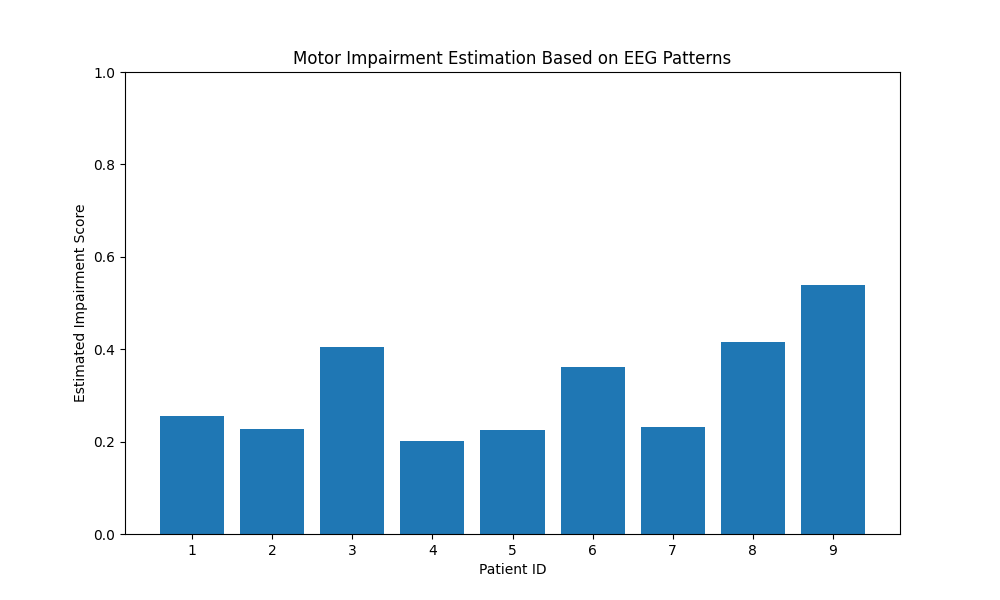
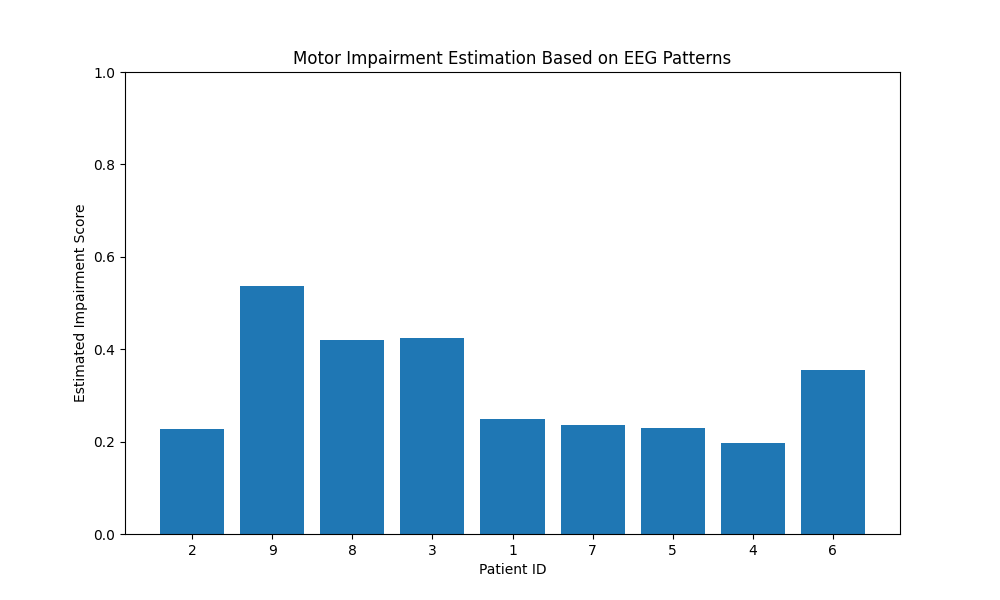
updated for train_val_test spilt

diff --git a/main.py b/main.py
@@ -1,29 +1,3 @@
-# from preprocessing2 import EEGPreprocessing  # Import the EEGPreprocessing class directly
-# from rehabilitation_analysis import run_rehabilitation_analysis
-
-# def main():
-#     # Step 1: Initialize and run the EEG preprocessing pipeline
-#     print("Starting preprocessing of EEG data...")
-#     dataset_path = 'BCICIV_2a_all_patients.csv'
-#     preprocessor = EEGPreprocessing(dataset_path)
-    
-#     # Run preprocessing pipeline to get epochs
-#     epochs = preprocessor.run_preprocessing_pipeline(
-#         epoch_duration=1.0,  # 1-second epochs
-#         overlap=0.5          # 50% overlap between epochs
-#     )
-    
-#     # Step 2: Run the rehabilitation analysis pipeline
-#     print("Starting rehabilitation analysis...")
-#     results = run_rehabilitation_analysis(epochs)
-    
-#     print("Project execution complete.")
-#     print("Check 'patient_reports' directory for detailed rehabilitation recommendations.")
-
-# if __name__ == "__main__":
-#     main()
-
-#test change
 from preprocessing2 import EEGPreprocessing
 import rehabilitation_analysis as rehab
 import multiprocessing as mp
@@ -32,67 +6,49 @@ import numpy as np
 from consolidated_reports import generate_consolidated_report
 
 def main():
-    # Set environment variables to control thread usage
-    os.environ['OMP_NUM_THREADS'] = '4'  # Control OpenMP threads
-    os.environ['MKL_NUM_THREADS'] = '4'  # Control Intel MKL threads
-    np.set_printoptions(precision=3)     # Reduce numpy printing precision (saves memory)
-    
-    # Optional: Disable unnecessary matplotlib features
-    import matplotlib
-    matplotlib.use('Agg')  # Use non-interactive backend
-    
-    # Step 1: Initialize and run the EEG preprocessing pipeline
-    print("Starting preprocessing of EEG data...")
     dataset_path = 'BCICIV_2a_all_patients.csv'
-    preprocessor = EEGPreprocessing(dataset_path)
-    
-    # Run preprocessing pipeline to get epochs
-    epochs = preprocessor.run_preprocessing_pipeline(
-        epoch_duration=1.0,  # 1-second epochs
-        overlap=0.5          # 50% overlap between epochs
-    )
-    
-    # Optional: Process only a subset for quick testing
-    # epochs = epochs[:500]  # Comment this line for full processing
-    
-    # Step 2: Run the rehabilitation analysis pipeline with multiprocessing
-    print("Starting rehabilitation analysis...")
-    # Set multiprocessing usage
-    num_cpus = max(1, mp.cpu_count() - 1)  # Leave one CPU free for system
-    print(f"Using {num_cpus} CPU cores for processing")
-    
-    # Extract features, analyze patterns and estimate impairment
-    print("Extracting features and analyzing patterns...")
-    features_df, patient_ids, labels = rehab.extract_rehabilitation_features(
-        epochs, use_parallel=True, n_jobs=num_cpus
-    )
-    
-    task_means = rehab.analyze_motor_imagery_patterns(features_df, labels)
-    
-    # Estimate impairment levels
-    print("Estimating impairment levels...")
-    impairment_df = rehab.estimate_impairment_level(features_df, labels, patient_ids)
-    
-    # Build therapy recommendations
-    print("Building therapy recommendations...")
-    patient_recommendations = rehab.build_therapy_recommendation_model(
-        features_df, impairment_df
-    )
-    
-    # Predict therapy effectiveness
-    print("Predicting therapy effectiveness...")
-    effectiveness_predictions = rehab.predict_therapy_effectiveness(
-        features_df, patient_recommendations
-    )
-    
-    # Generate consolidated report
-    print("Generating consolidated report...")
-    report_path = generate_consolidated_report(
-        patient_recommendations, effectiveness_predictions, impairment_df
-    )
-    
-    print("Analysis complete!")
-    print(f"Consolidated report available at: {report_path}")
+    print("Starting preprocessing...")
+    try:
+        preprocessor = EEGPreprocessing(dataset_path)  # Pass filename here
+        train_epochs, val_epochs, test_epochs = preprocessor.run_preprocessing_pipeline(epoch_duration=1.0, overlap=0.5)
+        print(f"Preprocessing complete. Train: {len(train_epochs)}, Validation: {len(val_epochs)}, Test: {len(test_epochs)} epochs.")
+
+        # CPU config
+        num_cpus = max(1, mp.cpu_count() - 1)
+
+        # ----- TRAIN -----
+        print("Processing TRAIN set...")
+        train_features, train_pids, train_labels = rehab.extract_rehabilitation_features(train_epochs, use_parallel=True, n_jobs=num_cpus)
+        train_impairments = rehab.estimate_impairment_level(train_features, train_labels, train_pids)
+        train_recommendations = rehab.build_therapy_recommendation_model(train_features, train_impairments)
+        train_effectiveness = rehab.predict_therapy_effectiveness(train_features, train_recommendations)
+
+        # ----- VALIDATION (Optional for tuning) -----
+        print("Processing VALIDATION set...")
+        val_features, val_pids, val_labels = rehab.extract_rehabilitation_features(val_epochs, use_parallel=True, n_jobs=num_cpus)
+        val_impairments = rehab.estimate_impairment_level(val_features, val_labels, val_pids)
+        val_recommendations = rehab.build_therapy_recommendation_model(val_features, val_impairments)
+        val_effectiveness = rehab.predict_therapy_effectiveness(val_features, val_recommendations)
+
+        # ----- TEST -----
+        print("Processing TEST set...")
+        test_features, test_pids, test_labels = rehab.extract_rehabilitation_features(test_epochs, use_parallel=True, n_jobs=num_cpus)
+        test_impairments = rehab.estimate_impairment_level(test_features, test_labels, test_pids)
+        test_recommendations = rehab.build_therapy_recommendation_model(test_features, test_impairments)
+        test_effectiveness = rehab.predict_therapy_effectiveness(test_features, test_recommendations)
+
+        # Only generate final reports for TEST set (best practice)
+        print("Generating consolidated report from TEST set...")
+        report_path = generate_consolidated_report(
+            test_recommendations, test_effectiveness, test_impairments
+        )
+
+        print("Done! Report available at:", report_path)
+
+    except Exception as e:
+        print(f"Preprocessing failed: {e}")
+        import traceback
+        traceback.print_exc()
 
 if __name__ == "__main__":
     main()

diff --git a/preprocessing2.py b/preprocessing2.py
@@ -2,6 +2,7 @@ import os
 import numpy as np
 import pandas as pd
 import scipy.signal
+from sklearn.model_selection import train_test_split
 from sklearn.preprocessing import StandardScaler
 import matplotlib.pyplot as plt
 import logging
@@ -22,6 +23,7 @@ class EEGPreprocessing:
         self.preprocessed_data = None
         self.epochs = None
 
+    # Make sure load_data is defined as part of the class
     def load_data(self):
         try:
             self.raw_data = pd.read_csv(self.dataset_path)
@@ -132,31 +134,28 @@ class EEGPreprocessing:
 
     def run_preprocessing_pipeline(self, epoch_duration=1.0, overlap=0.5):
         try:
-            data = self.load_data()
+            data = self.load_data()  # Make sure this method is being called
             cleaned = self.filter_data(data)
             normalized = self.normalize_data(cleaned)
-            self.epochs = self.segment_into_epochs(normalized, epoch_duration, overlap)
-            self.visualize_preprocessing(data, normalized, self.epochs)
+            epochs = self.segment_into_epochs(normalized, epoch_duration, overlap)
+            self.visualize_preprocessing(data, normalized, epochs)
+            
+            # Split by patient-wise epochs
+            epoch_labels = [epoch['label'].iloc[0] for epoch in epochs]
+            patient_ids = [epoch['patient'].iloc[0] for epoch in epochs]
 
-            logging.info("Preprocessing pipeline completed successfully")
-            return self.epochs
+            # Initial train-test split (80/20)
+            train_val_epochs, test_epochs = train_test_split(
+                epochs, test_size=0.2, random_state=42, stratify=patient_ids
+            )
+
+            # From train_val split, extract validation set (20% of train_val → 16% of total)
+            train_epochs, val_epochs = train_test_split(
+                train_val_epochs, test_size=0.2, random_state=42, stratify=[e['patient'].iloc[0] for e in train_val_epochs]
+            )
+
+            return train_epochs, val_epochs, test_epochs
+
         except Exception as e:
             logging.error(f"Preprocessing pipeline failed: {e}")
             raise e
-
-
-def main():
-    dataset_path = 'BCICIV_2a_all_patients.csv'
-    try:
-        preprocessor = EEGPreprocessing(dataset_path)
-        epochs = preprocessor.run_preprocessing_pipeline(epoch_duration=1.0, overlap=0.5)
-        print(f"Preprocessing complete. Total epochs: {len(epochs)}")
-    except Exception as e:
-        print(f"Preprocessing failed: {e}")
-        import traceback
-        traceback.print_exc()
-
-if __name__ == "__main__":
-    main()
-
-#test message

diff --git a/rehabilitation_analysis.py b/rehabilitation_analysis.py
@@ -548,4 +548,3 @@ if __name__ == "__main__":
     print("This module contains functions for EEG-based rehabilitation analysis.")
     print("Import and use these functions in your main script.")
 
-
